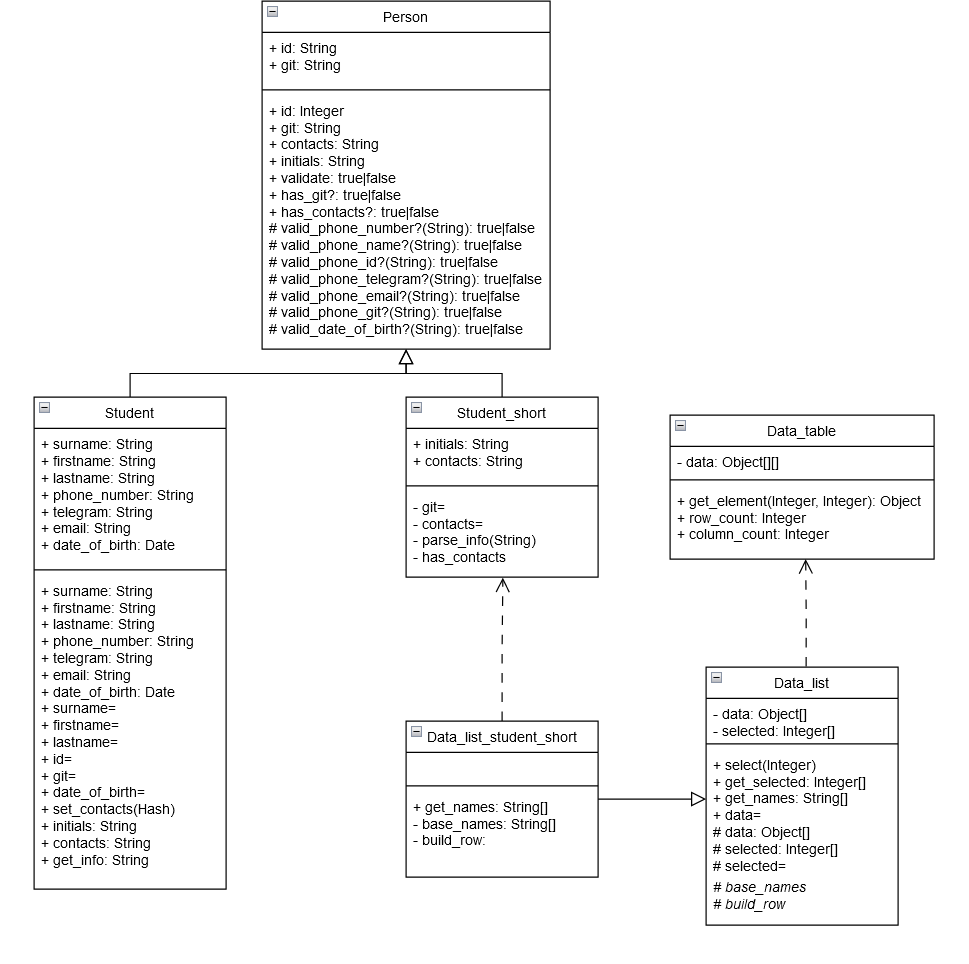
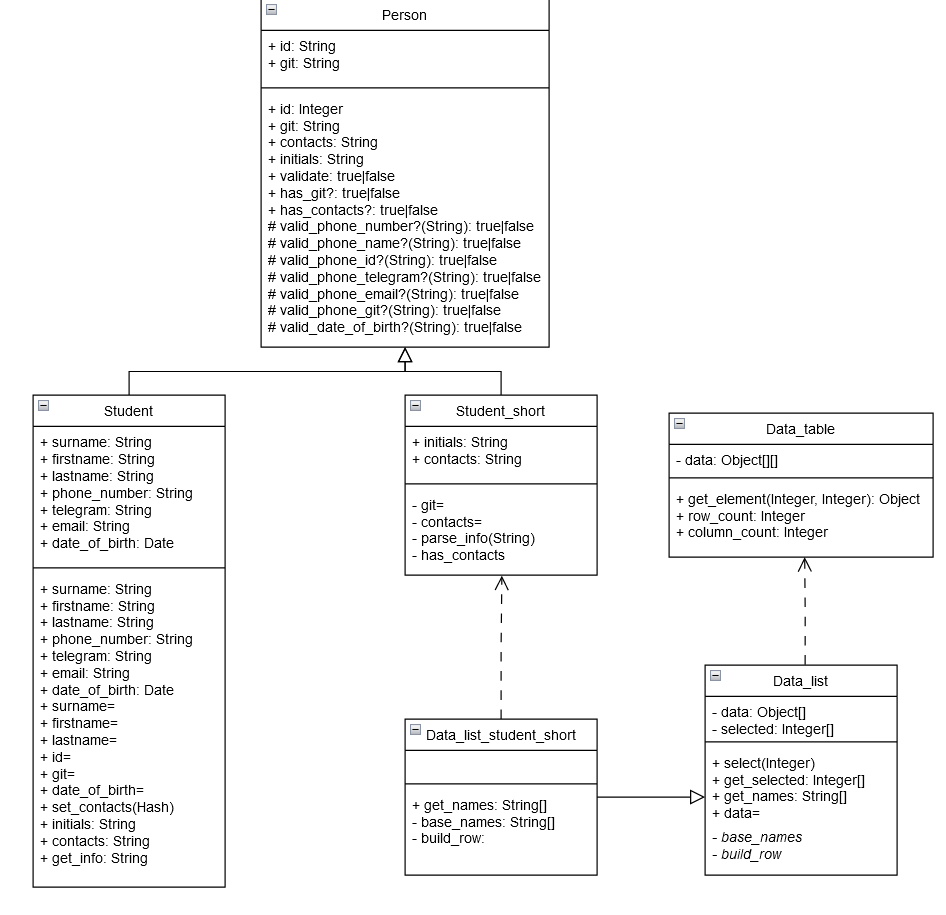
Лаб 4. Задание 1. Корректировки.
Изменены модификаторы доступа в классе Data_list.

diff --git a/Student/models/data_list.rb b/Student/models/data_list.rb
@@ -46,7 +46,7 @@ class Data_list
         @data = data
     end
 
-    protected
+    private
     
     attr_reader :data
     attr_accessor :selected
